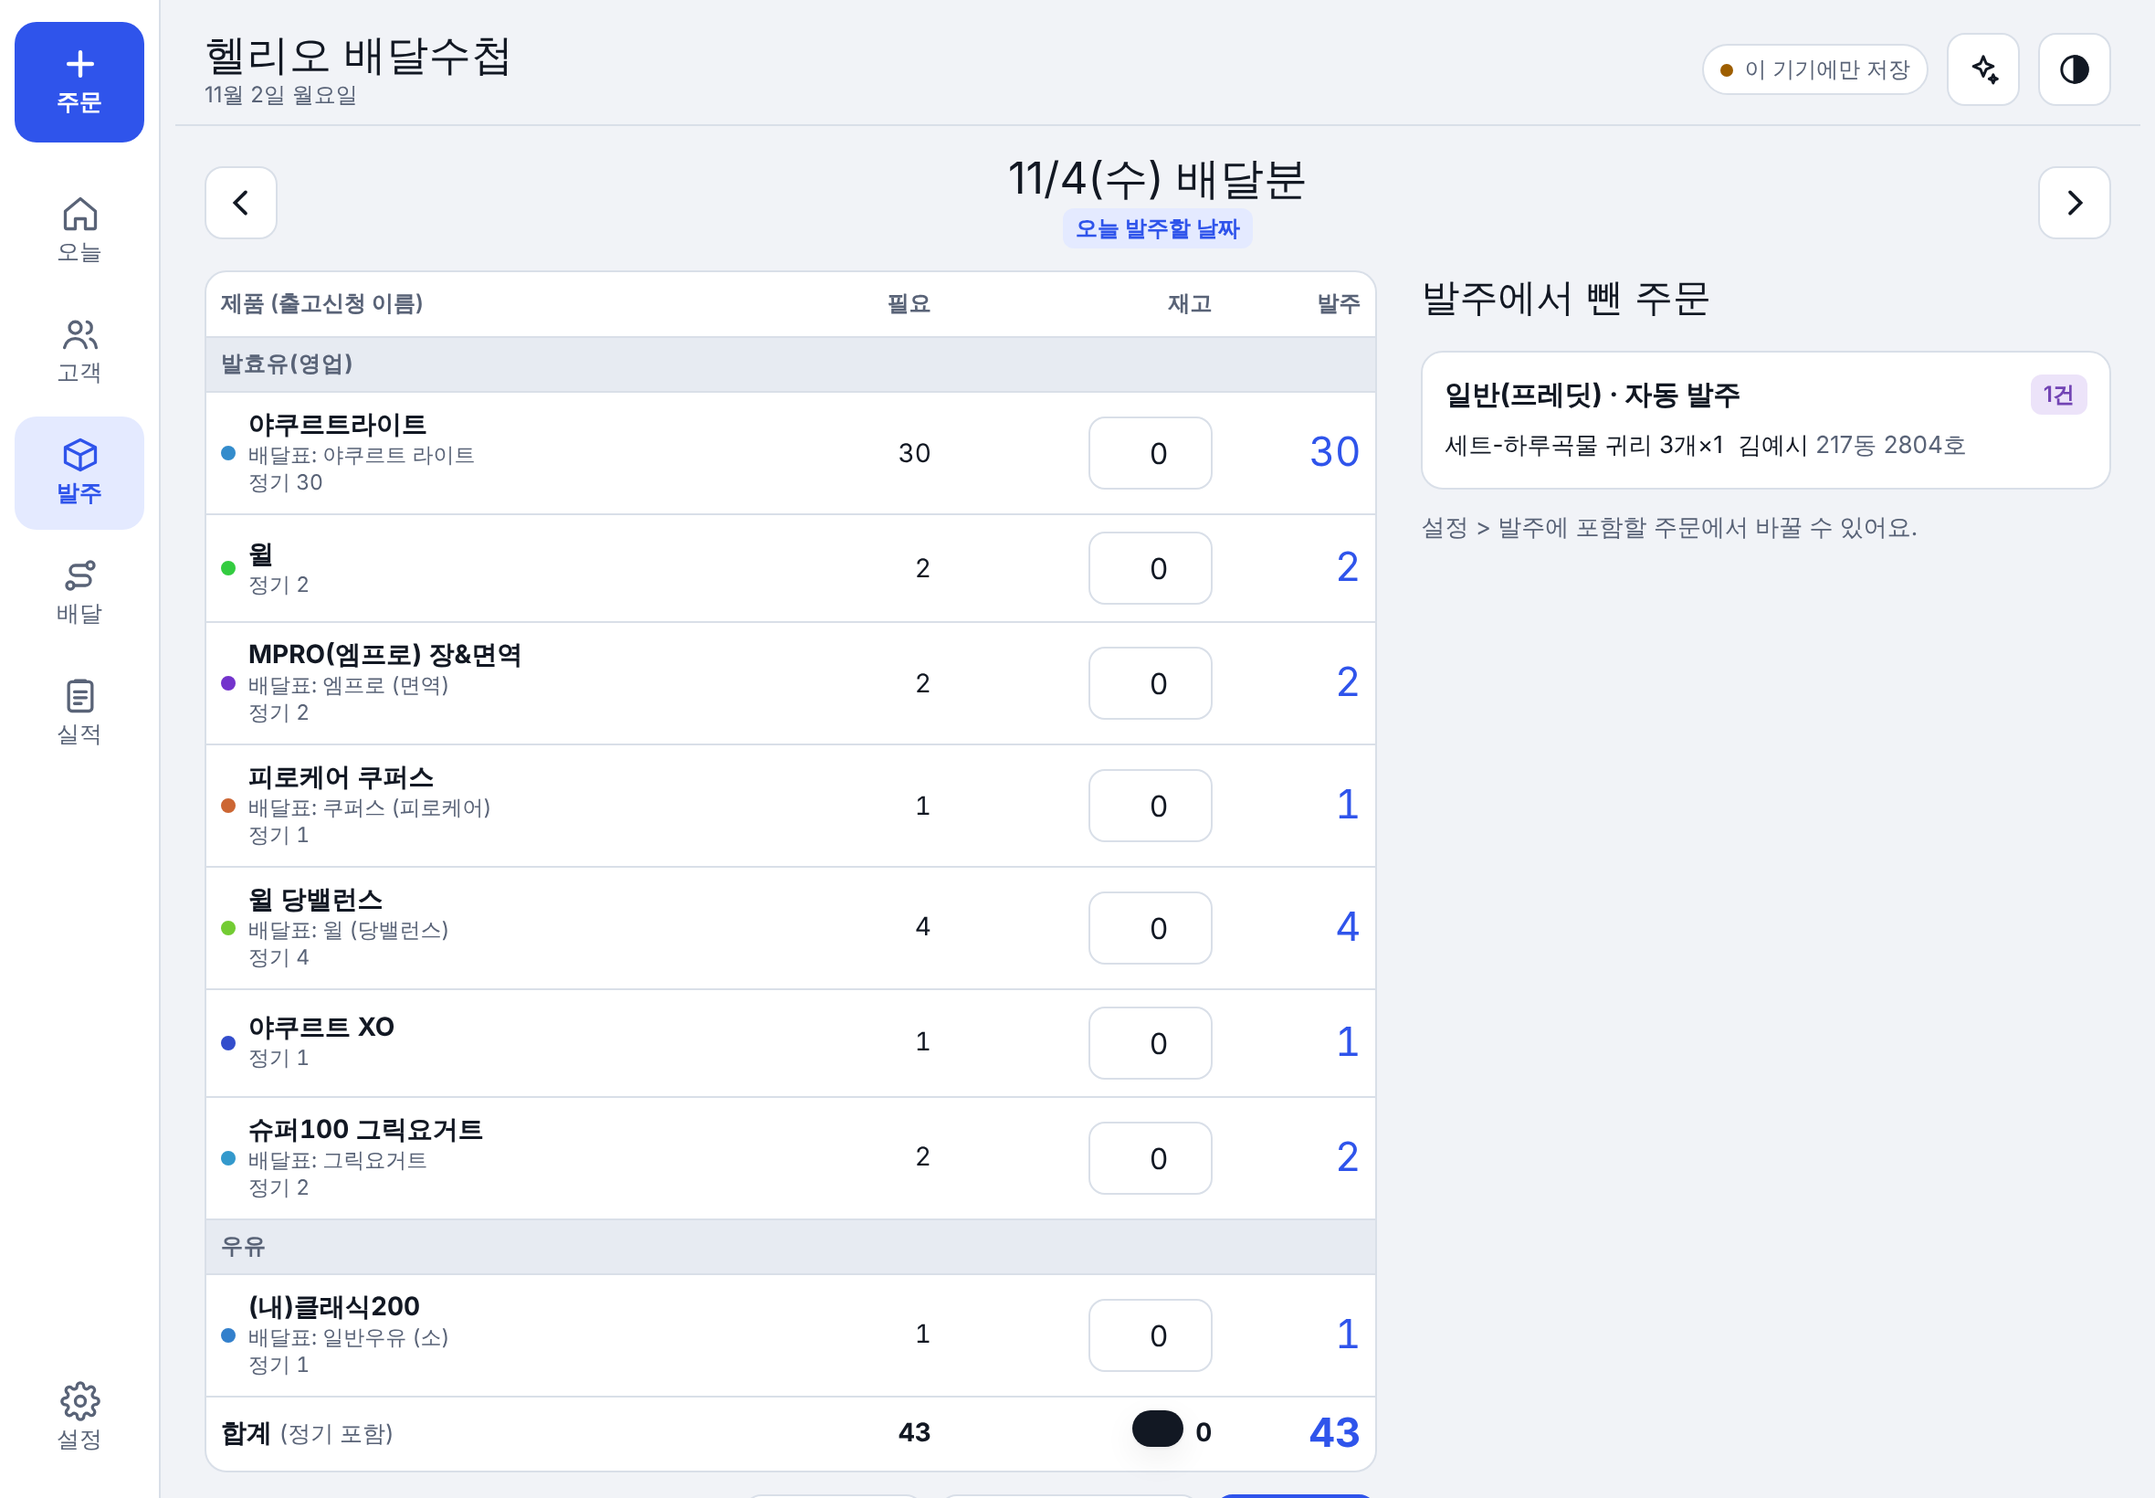
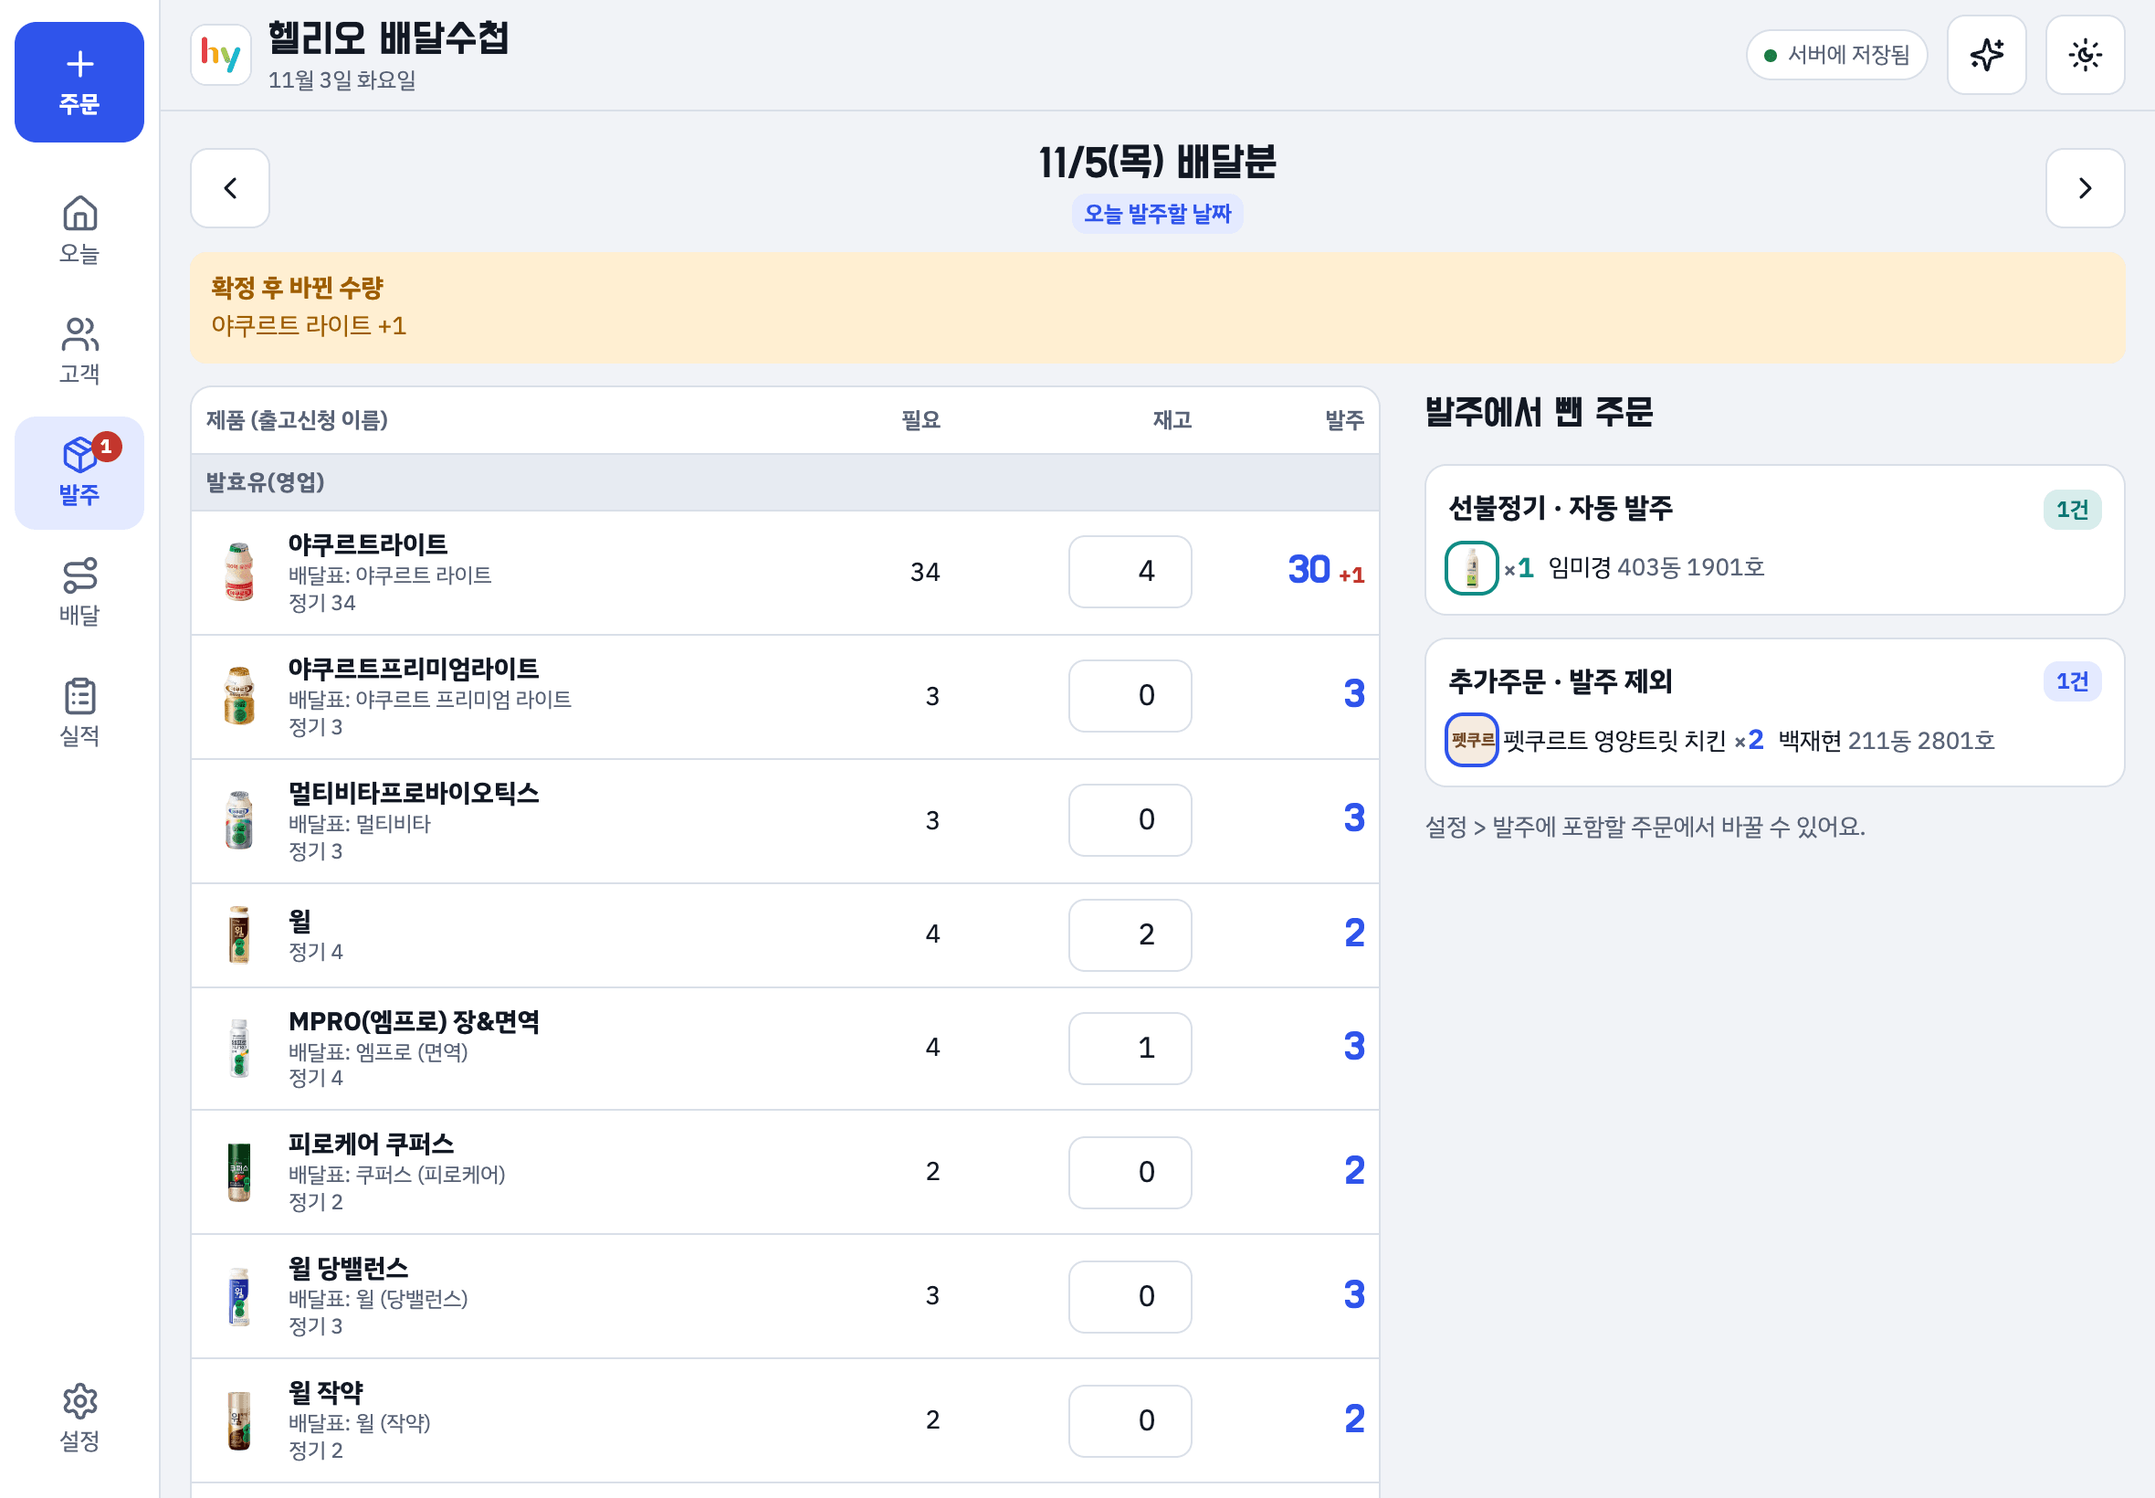
docs: add CLAUDE.md and update the README, changelog and screenshots
CLAUDE.md holds the project rules (AI naming, shadcn/ui + react-icons,
secrets, commit conventions, git identity) and the architecture notes.
The README describes the Firebase setup, offline use and product photos;
screenshots are retaken with demo customers.

diff --git a/CLAUDE.md b/CLAUDE.md
@@ -1,0 +1,64 @@
+# 헬리오 배달수첩 (HY Delivery Notebook)
+
+Route, ordering and customer notebook for one hy (Korea Yakult) delivery manager in Songpa Helio City, Seoul.
+She uses it every working day as a home-screen app on iPad and iPhone, often without a connection.
+It is an offline-first PWA: Vite + React (JavaScript) + shadcn/ui + Firebase (Auth, Firestore, Functions, Hosting).
+
+## Strict rules
+
+- **AI naming (permanent rule):** the app never names the AI model or provider in labels, settings, messages, or errors; it is always "AI."
+- **UI:** shadcn/ui components, icons from react-icons.
+- **Secrets:** never commit API keys, service-account files, tokens, passwords, or PINs.
+- **Commits carry no attribution trailers.** No co-authored-by line, no session line, and no "generated with" footer—in commit messages or pull request bodies. Every commit is authored solely as the git user is configured.
+- **Conventional Commits v1.0.0:** `<type>[(scope)][!]: <imperative description>`, blank line, body, blank line, footers. Types: feat, fix, docs, refactor, test, chore, perf, build, ci, style.
+- **Commit far less often:** one commit per meaningful, self-contained piece of work—a feature, a fix, a refactor, or a runbook. Small things join the commit they belong to. Never commit to one file, per review round, or per step of a session. A day's work is a handful of commits split by type and scope, not by when the edits were made.
+- **Git identity:** only the personal GitHub account `goochoi913` (never the work account `goo913`). The repo's own git config sets `user.name goochoi913`, `user.email goochoi913@gmail.com` and a credential helper that pushes with `gh auth token --user goochoi913`.
+- **Real customer data never goes into the repo** (the repo is public). `.gitignore` blocks data exports; demo data is generated in code and tagged `예시`.
+
+## Product rules that are easy to break
+
+- **Korean UI.** All user-facing text is Korean. Keep her wording when touching existing screens.
+- **Korea time.** Business dates and clock times are KST (`src/lib/dates.js`: `TODAY()`, `hm()`, `dayOf()`, `fmtStamp()`), whichever device opens the app. Never use `new Date().getHours()` / `toLocale*` without `timeZone` for business logic.
+- **Never prune data.** History is kept forever on the server. The app only loads a window (orders/days 62 days, perf 100 days, newest 600 log entries) and fetches older data on demand (`ensurePerfMonth`, `loadOlderLog`).
+- **Products are shown as photos** (`ProductQty` "[photo] ×4", `ProductImage`). On the route each stop shows its products as big photos under the row; she recognises items at a glance instead of reading names.
+- **Offline first.** Every change must work offline: mutate `S`, then `save(...)`. Never block a user action on the network (AI and backup/restore are the only online-only features, and they say so).
+- **Order types follow hy's categories:** regular (후불정기), prepaid (선불정기), fredit (일반), sample (견본), adhoc (추가), pickup (회수). Only the types switched on in settings go into the ordering sheet; pickup never does.
+
+## Architecture
+
+```
+src/
+  domain/      business logic ported from the original single-file app (pure functions over S)
+               constants, normalize, model, calendar, location, stops, bills, alerts, log, perf, route-image
+  store/       state.js (S + UI + useStore), sync.js (Firestore), auth.js (Google sign-in + approval)
+  views/       Home, Customers, Order (T-2 sheet), Route, Records, Settings
+  sheets/      bottom/side sheets (stop editor, order form, customer form, bulk edits, bills, records, sync)
+  ai/          AI assistant: context.js (what the AI sees), tools.js (what it can do), client.js, assistant.jsx, import-sheet.jsx
+  components/  ui/ (shadcn, restyled to the app's look), common.jsx (ProductQty, Plate, Seg, Chip, DayPick…), icons.js (react-icons)
+  demo/        demo data (tagged 예시)
+functions/     Cloud Function `ai`: proxy to the AI API (key in Secret Manager), approved users only
+scripts/       build-images.mjs: product photos (public/products/*.webp) and icons from local sources
+```
+
+- **State:** `S` = `{ customers, orders, config, days, log, perf }` exactly like the original app; `UI` = screen state. Components call `useStore()` and read `S`/`UI` directly; mutations change `S` and call `save('customers', 'log', …)`, which persists and re-renders.
+- **Sync (`store/sync.js`):** one Firestore document per record (`customers/{id}`, `orders/{id}`, `days/{date}`, `log/{id}`, `perf/{date}`, `settings/main`). `save()` diffs against the last known server version and writes only changed fields (merge), so two devices editing different fields of one record both keep their change. Firestore's IndexedDB cache makes reads and writes work offline; writes queue and sync when online.
+- **Auth (`store/auth.js`, `firestore.rules`):** Google sign-in. New accounts start `pending` in `users/{uid}`; any approved user can approve others (Settings > 사용자). The owner email is approved by the rules themselves. Keep the owner list in sync in `firestore.rules`, `src/store/auth.js` and `functions/index.js`.
+- **AI:** the browser runs the tool loop (tools act on local data, so they work like the buttons), the `ai` function only forwards one step to the AI API and streams text back. Fixed instructions are cached; the current data snapshot is appended as a mid-conversation system message each turn; the last 10 chat messages give conversational memory; the chat is shared between devices (`chat` collection). Each AI turn can be undone (only the records it touched).
+- **PWA:** `vite-plugin-pwa` precaches the app shell, product photos and icons; fonts are cached on first use. `/__/` is excluded from the navigation fallback (Firebase sign-in handler).
+
+## Commands
+
+```bash
+npm install && (cd functions && npm install)
+cp .env.example .env.local     # Firebase web config (gitignored)
+npm run dev                    # against the real Firebase project
+npm run emulators              # Auth + Firestore + Functions emulators (needs Java 21+)
+npm run dev:emu                # app against the emulators; sign in from the console: __devSignIn('you@example.com')
+npm run lint
+npm run build
+npm run images                 # rebuild product photos/icons after adding source images
+npm run deploy                 # hosting + Firestore rules
+npm run deploy:functions       # the AI function (needs the ANTHROPIC_API_KEY secret)
+```
+
+Firebase project: `hy-delivery-notebook` (Firestore in `asia-northeast3`, daily backups kept 14 days). Hosting: https://hy-delivery-notebook.web.app

diff --git a/README.md b/README.md
@@ -41,12 +41,15 @@ When something slipped, a customer got the wrong item, or I ordered too much or 
 
 ## How it is built
 
-- **One HTML file, plain JavaScript, no framework and no build step.** It is added to the iPad Home Screen like an app. The layout works on iPad (split view: list and building map side by side) and on iPhone, in light and dark mode.
-- **Storage.** It runs as a published claude.ai page. Data lives in that page's database with an owner-only read/write rule, so only my account can read it.
-  - Every write is mirrored to `localStorage`, so the app opens and works offline.
-  - Each document has a timestamp, and the newer edit wins.
-  - Failed writes wait in a queue and retry. Data is also saved when the page goes to the background.
-- **Data model** (simplified):
+Version 2 keeps every feature and rule of the original and moves it onto a normal project setup (see [docs/CHANGELOG.md](docs/CHANGELOG.md)).
+
+- **An installable web app (PWA) that works without internet.** Added to the iPad and iPhone Home Screen from Safari. The app, the product photos and the fonts are stored on the device, so it opens and works in basements and stairwells with no signal.
+- **Data in Firebase, a copy on the device.** Every change is saved on the device first and sent to the server as soon as there is a connection, even if the app was closed in between. The iPad and the iPhone see each other's changes live. Records are stored one per customer, order and day, so two devices editing different things never overwrite each other. Nothing is pruned: past orders, logs and monthly performance stay on the server, and the server is backed up every day.
+- **Google sign-in with approval.** A new account waits until an approved user lets it in (Settings > 사용자).
+- **Product photos instead of names.** On the route, each stop shows its products as big photos with the count ("[photo] ×4"), so items are recognised at a glance. The ordering sheet, order form, customer cards and records use the same photos.
+- **AI assistant through a small server function.** The AI key stays on the server. The assistant gets the same context as before (today, the products, every customer with regular items and pauses, the next two weeks of orders) plus tools that change the data exactly like the buttons do, and each AI turn can be undone. The conversation is shared between iPad and iPhone.
+- **Stack:** Vite + React (JavaScript), shadcn/ui, react-icons, Firebase (Auth, Firestore, Cloud Functions, Hosting). The original logic lives in `src/domain/` almost line for line. Developer notes are in [CLAUDE.md](CLAUDE.md).
+- **Data model** (simplified, unchanged from version 1):
   ```
   customer  { id, name, loc{building, unit, type}, regular[{productId, qty, days[], every, anchor}],
               pauses[{from, to, days[]}], status, endDate, payment, holidayOff, … }
@@ -56,18 +59,18 @@ When something slipped, a customer got the wrong item, or I ordered too much or 
   ```
 - **Route order** = building rank → entrance group → floor (high to low), then my saved base order, then that day's drag changes.
 - **Product names** keep two names, the short one on my delivery sheet and the exact name in hy's ordering app, so the ordering list can be copied as-is. Items not in the catalog (pet products, gift sets) can be typed in by name. They go on the route but never into the ordering sheet.
-- **AI** uses the page's Claude access with a fixed set of tools and a context summary of today's data. The assistant cannot do anything the buttons cannot.
 
 ## Privacy
 
 - This repository contains **only code**. No names, phone numbers, addresses, orders, or logs.
-- Real data stays in the owner-only database of my private claude.ai page. Someone else who opens the page sees an empty notebook.
-- `.gitignore` blocks data exports (`*.json`, `*.csv`, `*.xlsx`, phone screenshots) as a second safety net.
-- Screenshots in `docs/` were made with fictional customers.
+- Real data lives in Firebase behind security rules: only signed-in, approved accounts can read or write it.
+- `.gitignore` blocks data exports (`*.json` backups, `*.csv`, `*.xlsx`, phone screenshots), local keys (`.env.local`) and the source photo folders.
+- Screenshots in `docs/` use made-up demo customers (Settings > 데이터 > 예시 데이터 넣기).
 
 ## Running it
 
-Open `index.html` in a browser. Outside claude.ai it runs in **local mode**: data stays only in that browser, and sync and the AI assistant are turned off. Inside claude.ai it syncs across devices and the assistant works.
+- **Use it:** open https://hy-delivery-notebook.web.app in Safari → Share → **Add to Home Screen**, then sign in with Google once.
+- **Develop:** `npm install`, copy `.env.example` to `.env.local`, then `npm run dev`. `npm run emulators` + `npm run dev:emu` run everything locally against the Firebase emulators. Details in [CLAUDE.md](CLAUDE.md).
 
 ## How I made it
 
@@ -81,4 +84,4 @@ The commit history shows how it grew, one real problem at a time. The full list 
 
 ### 한국어 요약
 
-송파 헬리오시티에서 hy 배달 매니저로 일하면서 매일 쓰는 배달 관리 앱이에요. 정기 고객 관리, 2영업일 전(T-2) 발주표, 입구·층 순서로 정렬되는 배달 동선, 알림톡 주문 입력(일반·견본·선불정기·추가·회수), 중지와 자동 재개, 공휴일, 변경 기록, 월별 실적, 종이 청구서 전달 표시, AI 도우미가 한 화면에 있어요. 이 저장소에는 코드만 있고 고객 정보는 없어요.
+송파 헬리오시티에서 hy 배달 매니저로 일하면서 매일 쓰는 배달 관리 앱이에요. 정기 고객 관리, 2영업일 전(T-2) 발주표, 입구·층 순서로 정렬되는 배달 동선, 알림톡 주문 입력(일반·견본·선불정기·추가·회수), 중지와 자동 재개, 공휴일, 변경 기록, 월별 실적, 종이 청구서 전달 표시, AI 도우미가 한 화면에 있어요. 제품은 이름 대신 사진과 개수로 보여요. iPad·iPhone 홈 화면에 추가해서 인터넷이 없어도 쓰고, 연결되면 서버(Firebase)에 자동으로 저장돼요. 이 저장소에는 코드만 있고 고객 정보는 없어요.

diff --git a/docs/CHANGELOG.md b/docs/CHANGELOG.md
@@ -17,3 +17,8 @@ Each version came from a real problem on the route. Dates are KST.
 | 2026-10-29 | Items not in the catalog, "paid separately, don't order" | Pet products and gift sets come paid through the app |
 | 2026-11-01 | Paper bill list with route markers | Monthly paper bills have to go out with the delivery |
 | 2026-11-01 | Bill counts as given only when its icon is tapped | Checking a delivery did not mean the bill went out |
+| 2026-11-03 | Rebuilt as a regular project (React + shadcn/ui on Firebase). Every feature and rule kept; Google sign-in, new accounts wait for approval | The notebook lived only inside one claude.ai page; the data needed its own home and the code a normal structure |
+| 2026-11-03 | Works fully offline as a Home Screen app; changes made without signal sync when back online; two devices editing different things no longer overwrite each other | Basements and stairwells have no signal; an offline edit could replace a whole list |
+| 2026-11-03 | Nothing is deleted anymore (old orders, logs and performance stay on the server), daily server backups | Version 1 pruned orders after 60 days and logs after 200 |
+| 2026-11-03 | Product photos instead of names: big photos with the count under each stop on the route, and photos in orders, customers and records | Reading product names while walking is slow; photos are recognised at a glance |
+| 2026-11-03 | AI assistant through a server function; chat shared between iPad and iPhone; undo reverts only what that AI turn changed | The AI key must stay off the device; undo used to roll back unrelated edits made after it |
